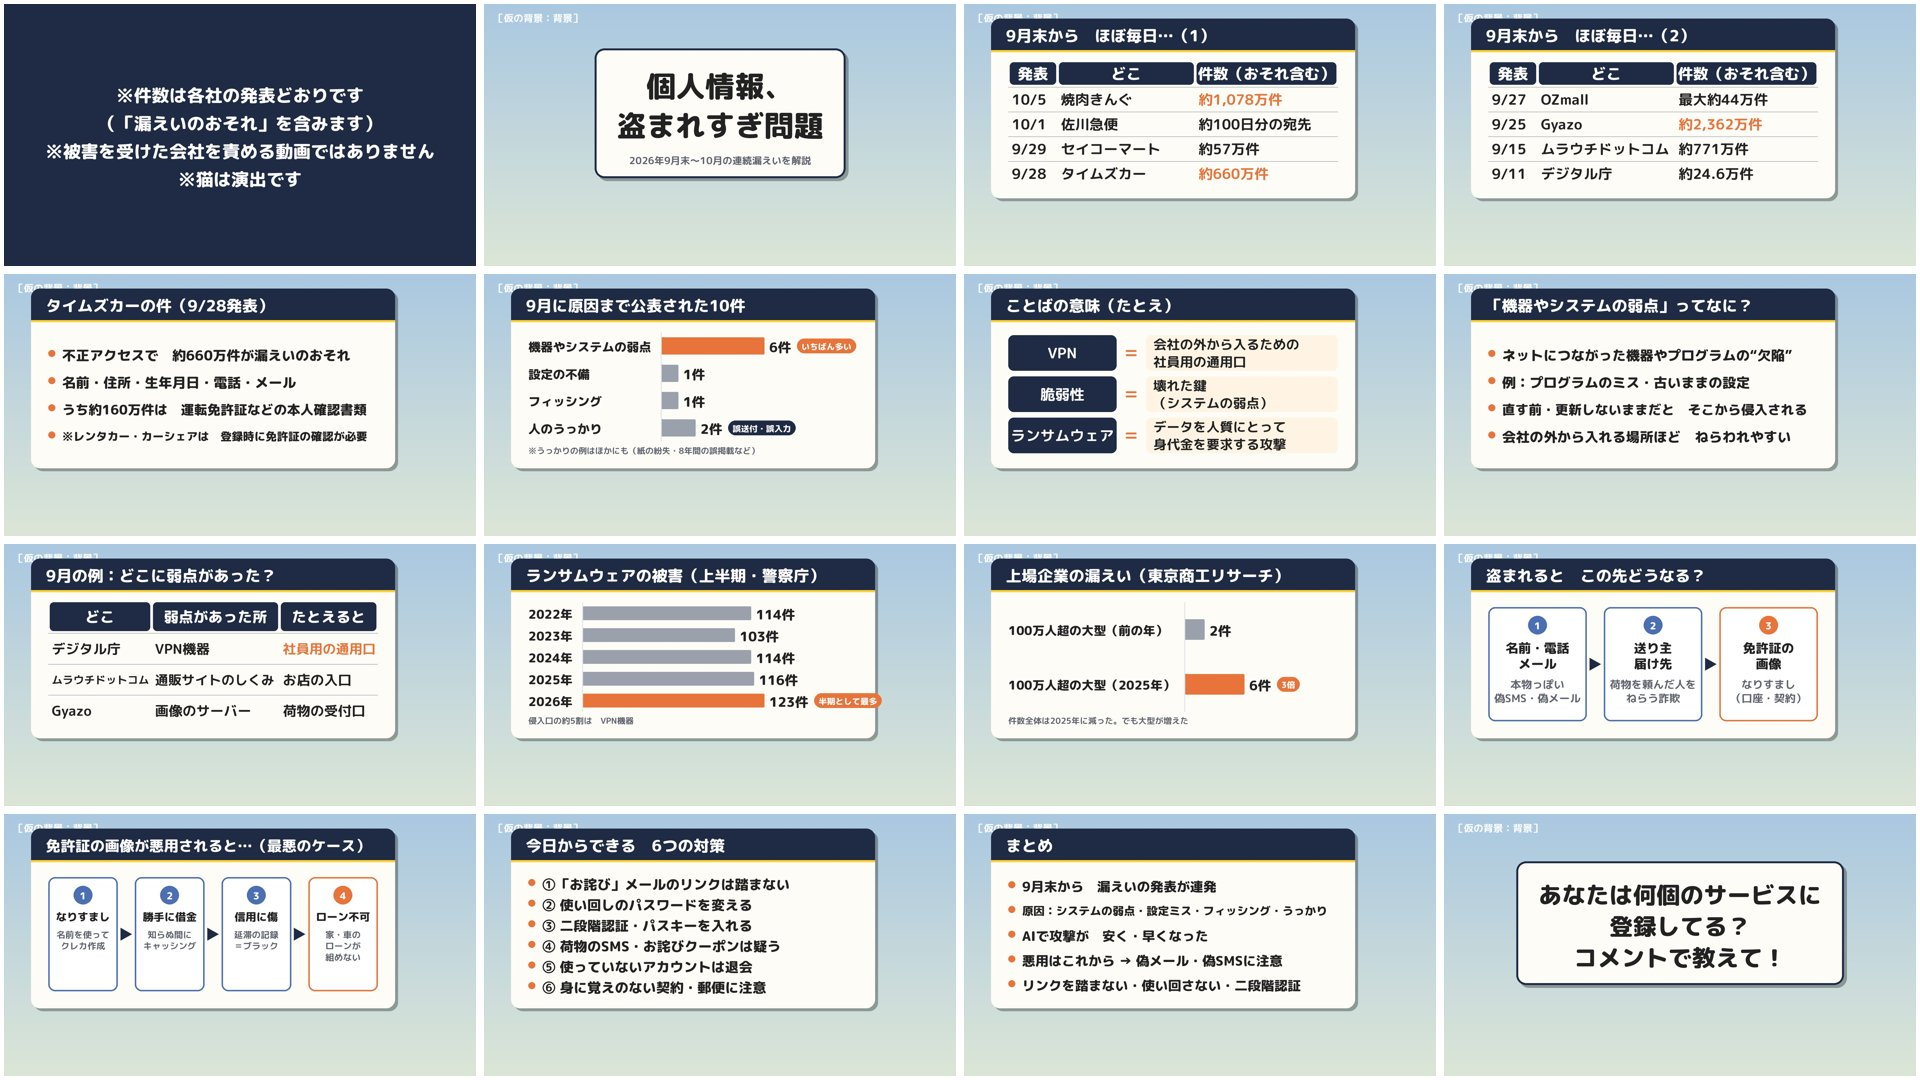
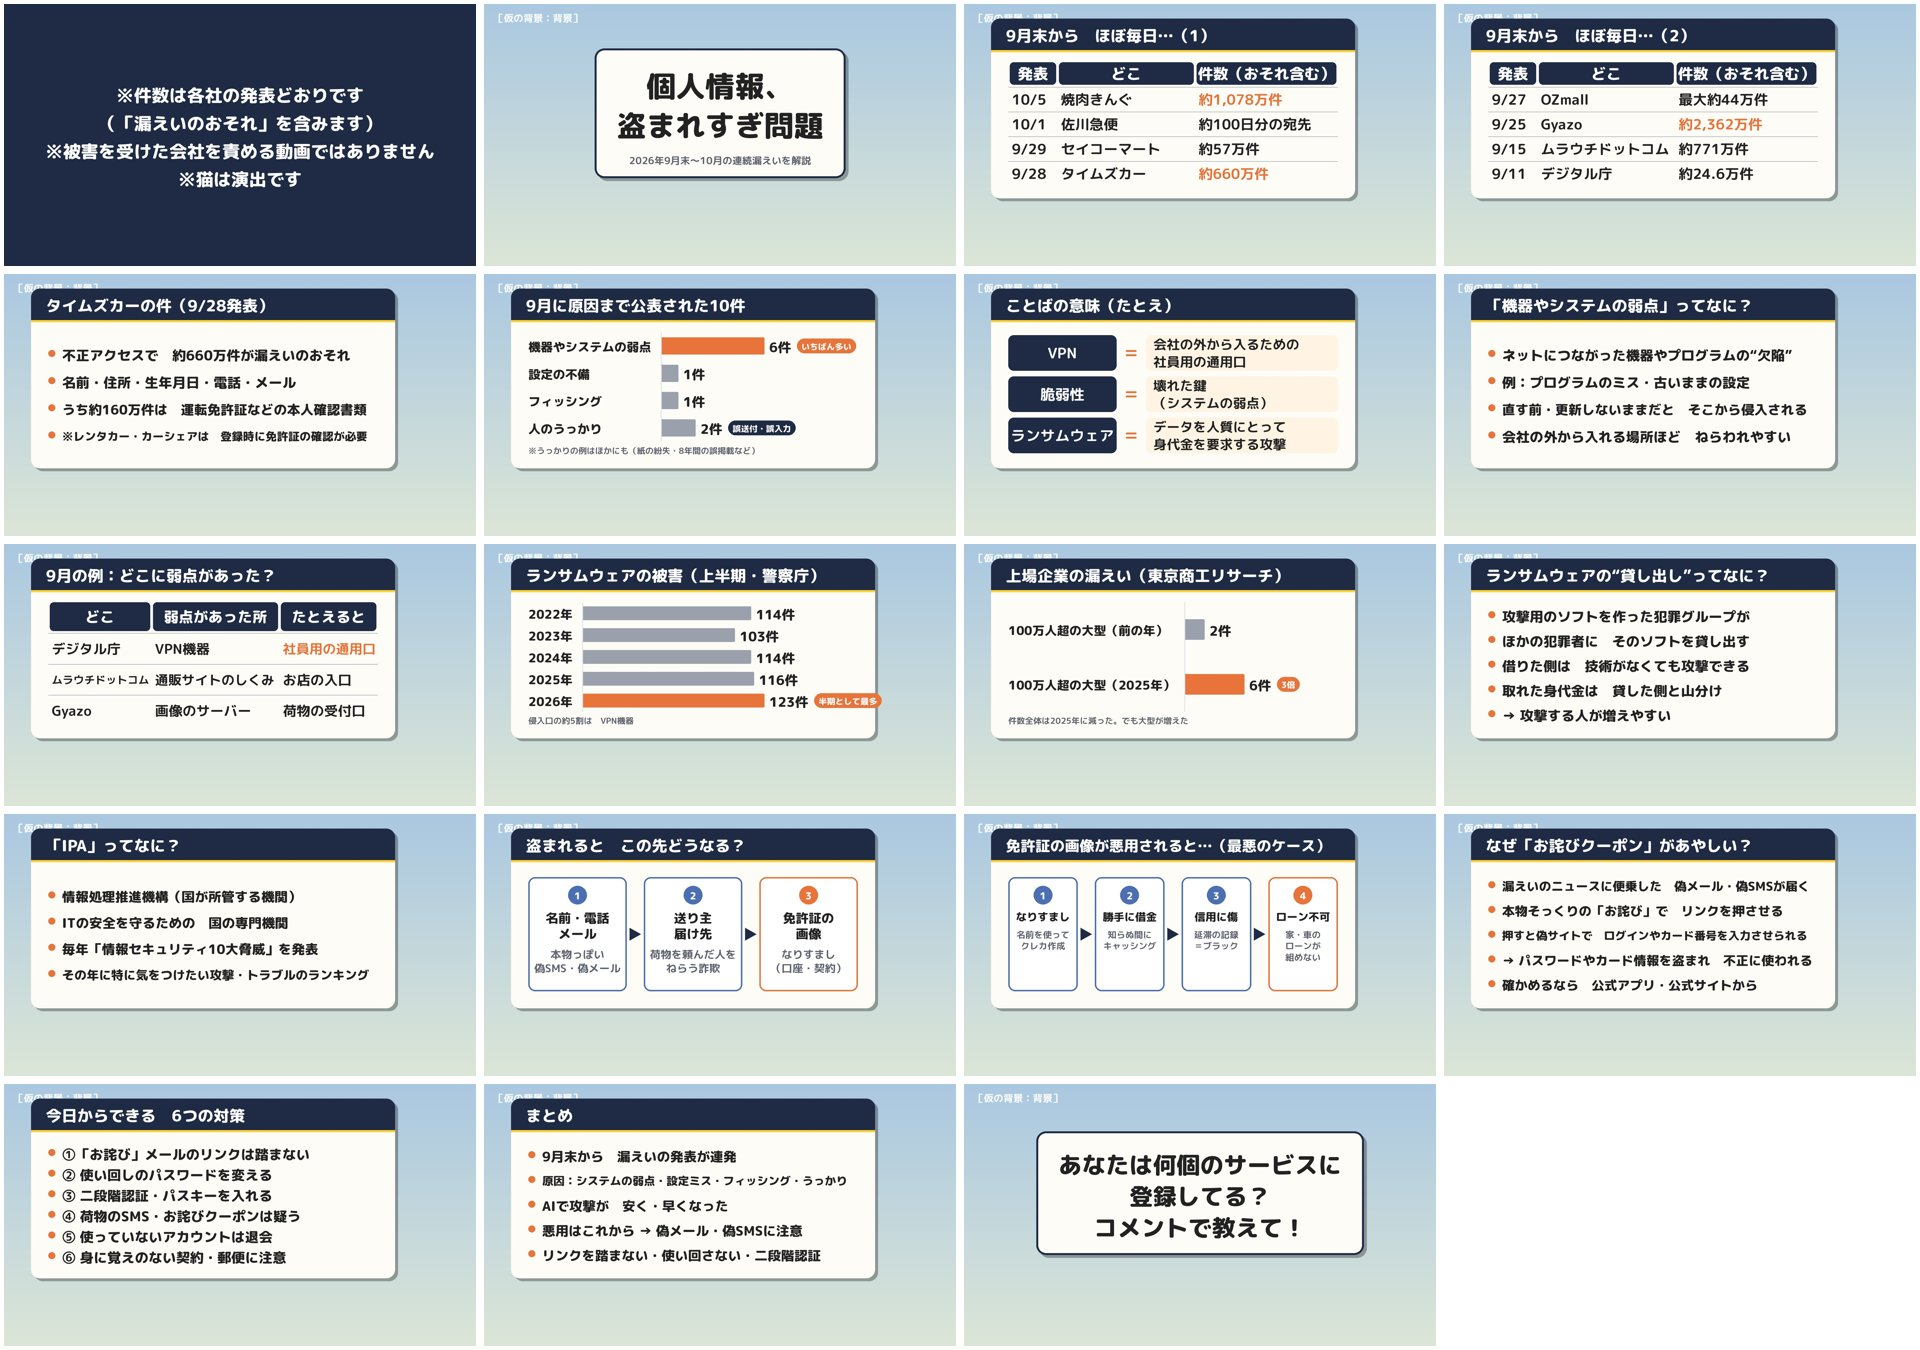
4本目：RaaS・IPA・お詫びクーポンの説明カードを追加、人為的ミスのセリフを修正
Claude-Session: https://claude.ai/code/session_011g9CsrfFD5YswfNSvNDW39

diff --git a/catmeme/cuts_04_leak.py b/catmeme/cuts_04_leak.py
@@ -183,7 +183,7 @@ def cuts_all():
             right=S, se="glass_break_01"),
         dia("e03_cause", "RIZAP　約2万人分を外部の生成AIに入力／愛知県のサイトで8年間まちがって掲載", "bg25_office_desk",
             right=S, se="boing_fail"),
-        close("bg25_office_desk", "@react", "ニュース猫", "ハッキングより\nドラッグ&ドロップのほうが怖い", se=["shock_piano"]),
+        close("bg25_office_desk", "@react", "ニュース猫", "ハッキングもだけど\n人為的ミスによる流出も\n怖すぎる", se=["shock_piano"]),
         ss("人間のうっかりは\nどこにでもあるからな", "bg25_office_desk", se="taiko_kaka"),
         # ---- 3. なぜ今 連発しているのか ----
         chap("なんで今　こんなに連発？", se="quiz_question_02"),
@@ -191,8 +191,10 @@ def cuts_all():
             se="doon_heavy"),
         dia("e04_ransom", "ランサムウェアの侵入口は　約5割がVPN機器", right=S, se="pc_warning"),
         ss("ランサムウェアは\n“貸し出し”もされてて\n技術がなくても攻撃できる", se="cursor_move_01"),
+        dia("e04c_raas", "作る犯罪者と　使う犯罪者が　分業している", "bg23_hacker_room", right=S, se="page_turn_02"),
         close("bg02_room", "@react", "ニュース猫", "悪いことの\nサブスク！？", se=["game_smash_challenger"]),
-        ss("IPAの「10大脅威」に\nAIをめぐるリスクが\n初めて入った", se="page_turn_01"),
+        dia("e04d_ipa", "IPA＝ITの安全を守る　国の専門機関", right=S, se="page_turn_01"),
+        ss("IPAの「10大脅威」に\nAIをめぐるリスクが\n初めて入った", se="pikon"),
         expl("bg23_hacker_room", [cat("@hack", "ハッカー猫", 960, h=700)], "",
              "9月10〜15日の5日間\n人間が指揮したAIが\nほぼ自動で100以上の組織を攻撃", dur=3.0, se="game_undertale_encounter"),
         expl("bg23_hacker_room", [cat("@hack", "ハッカー猫", 960, h=700)], "",
@@ -243,6 +245,9 @@ def cuts_all():
         ss("開示を申し込めば\n見られるぞ\n身に覚えのない契約が\nないかチェックな", "bg20_counter", se="idea_newtype_01"),
         hk("お荷物の\nお届けに\nあがりました〜（偽）", b="bg26_phone_alert", se="cursor_move_02"),
         hk("お詫びの\nクーポンです〜（偽）", b="bg26_phone_alert", side="L", se="shine_kira_01"),
+        dia("e05c_coupon", "漏えいのあとは　それに便乗した偽の「お詫び」がよく届く", "bg26_phone_alert", right=S, se="pc_warning"),
+        dia("e05c_coupon", "クーポン目当てでリンクを押すと　パスワードやカード情報を盗まれることも", "bg26_phone_alert", right=S,
+            se="buzzer_wrong"),
         close("bg26_phone_alert", "@react", "ニュース猫", "お詫びクーポンが来たら\nそれが一番あやしい！",
               se=["tv_gakitsuka_dedeen"]),
         ss("パスワードの使い回しは\n別のサービスにも\n次々ログインされる", se="pi"),

diff --git a/catmeme/make_parts_04_leak.py b/catmeme/make_parts_04_leak.py
@@ -112,6 +112,19 @@ ITEMS = {
         ("2025年", 116, False, ""),
         ("2026年", 123, True, "半期として最多"),
     ], unit="件", note="侵入口の約5割は　VPN機器"),
+    "e04c_raas": P.bullets("ランサムウェアの“貸し出し”ってなに？", [
+        "攻撃用のソフトを作った犯罪グループが",
+        "ほかの犯罪者に　そのソフトを貸し出す",
+        "借りた側は　技術がなくても攻撃できる",
+        "取れた身代金は　貸した側と山分け",
+        "→ 攻撃する人が増えやすい",
+    ], size=56),
+    "e04d_ipa": P.bullets("「IPA」ってなに？", [
+        "情報処理推進機構（国が所管する機関）",
+        "ITの安全を守るための　国の専門機関",
+        "毎年「情報セキュリティ10大脅威」を発表",
+        "その年に特に気をつけたい攻撃・トラブルのランキング",
+    ], size=54),
     "e04b_big": P.bars("上場企業の漏えい（東京商工リサーチ）", [
         ("100万人超の大型（前の年）", 2, False, ""),
         ("100万人超の大型（2025年）", 6, True, "3倍"),
@@ -127,6 +140,13 @@ ITEMS = {
         ("信用に傷", "延滞の記録\n＝ブラック"),
         ("ローン不可", "家・車の\nローンが\n組めない"),
     ], hsize=44, ssize=36),
+    "e05c_coupon": P.bullets("なぜ「お詫びクーポン」があやしい？", [
+        "漏えいのニュースに便乗した　偽メール・偽SMSが届く",
+        "本物そっくりの「お詫び」で　リンクを押させる",
+        "押すと偽サイトで　ログインやカード番号を入力させられる",
+        "→ パスワードやカード情報を盗まれ　不正に使われる",
+        "確かめるなら　公式アプリ・公式サイトから",
+    ], size=52),
     "e06_todo": P.bullets("今日からできる　6つの対策", [
         "①「お詫び」メールのリンクは踏まない",
         "② 使い回しのパスワードを変える",

diff --git a/catmeme/scripts/04_leak.md b/catmeme/scripts/04_leak.md
@@ -78,7 +78,7 @@
 【字幕】TOPPAN　損保ジャパン契約者17万7,426名分を　ドラッグ&ドロップの誤りで同業他社へ送付
 【字幕】RIZAP　約2万人分を　外部の生成AIに入力
 【字幕】愛知県のサイトで　8年間まちがって掲載
-ニュース猫「ハッキングより　ドラッグ&ドロップのほうが怖い」（赤）
+ニュース猫「ハッキングもだけど　人為的ミスによる流出も怖すぎる」（赤）
 博識な猫「人間のうっかりは　どこにでもあるからな」
 
 ## 3. なぜ今　連発しているのか
@@ -87,7 +87,9 @@
 〔カード：棒〕ランサムウェア被害　2026年上半期 123件　統計を取りはじめてから最多（警察庁）
 【字幕】ランサムウェアの侵入口は　約5割がVPN機器（警察庁）
 博識な猫「ランサムウェアは“貸し出し”もされてて　技術がなくても攻撃できる」
+〔カード：ランサムウェアの“貸し出し”ってなに？〕攻撃用のソフトを作った犯罪グループが　ほかの犯罪者に貸し出す／借りた側は技術がなくても攻撃できる／取れた身代金は山分け／→ 攻撃する人が増えやすい
 ニュース猫「悪いことのサブスク！？」
+〔カード：「IPA」ってなに？〕情報処理推進機構（国が所管する機関）／ITの安全を守るための国の専門機関／毎年「情報セキュリティ10大脅威」を発表／その年に特に気をつけたい攻撃・トラブルのランキング
 【字幕】IPA の「10大脅威」に　AIをめぐるリスクが初めて入った
 〔説明〕9月10〜15日の5日間　人間が指揮したAIが　ほぼ自動で100以上の組織を攻撃　30以上のサイトに侵入（海外の報告。日本の件と同じ犯人という根拠はない）
 ニュース猫「AIがハッカーやってんの！？」（赤・神の怒り）
@@ -121,6 +123,7 @@
 博識な猫「開示を申し込めば見られるぞ。身に覚えのない契約がないかチェックな」
 ハッカー猫「お荷物のお届けにあがりました〜（偽）」
 ハッカー猫「お詫びのクーポンです〜（偽）」
+〔カード：なぜ「お詫びクーポン」があやしい？〕漏えいのニュースに便乗した偽メール・偽SMSが届く／本物そっくりの「お詫び」でリンクを押させる／押すと偽サイトでログインやカード番号を入力させられる／→ パスワードやカード情報を盗まれ不正に使われる／確かめるなら公式アプリ・公式サイトから
 ニュース猫「お詫びクーポンが来たら　それが一番あやしい！」（赤）
 【字幕】パスワードの使い回し → 別のサービスにも次々ログインされる
 ニュース猫「……全部同じパスワードだわ」
